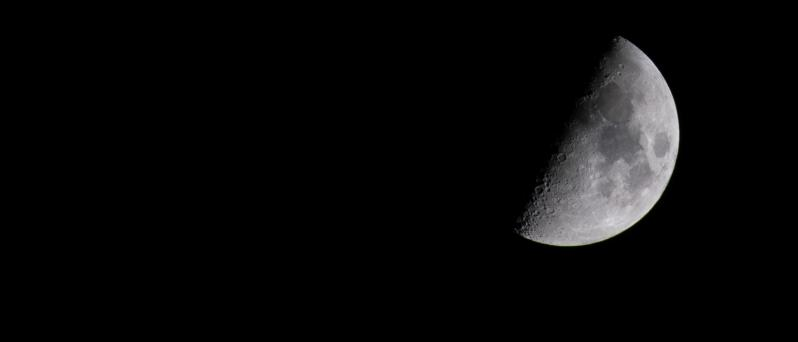
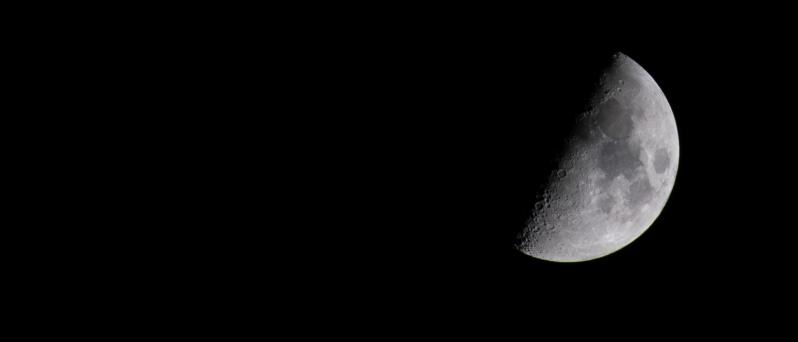
Updating gh-pages site

Changed region(s): [[0.6316, 0.117, 0.8722, 0.7895]]

diff --git a/blog/personal/enter-the-mystery/index.html b/blog/personal/enter-the-mystery/index.html
@@ -7,11 +7,11 @@
 <meta property="og:site_name" content="a-fro.com" />
 <meta property="og:title" content="Enter the Mystery" />
 <meta property="og:description" content="I work for the machine three days a week, making money to provide for my family and playing the game. It is soul-sucking work, not because it is inherently bad or wrong, but because every fiber of my being knows that I am called to something much more aligned with Life. Most of us are living lives of quiet desperation, trapped in the matrix despite seeing our plight. Knowing is not enough. The structures that we need to support the new world still mostly exist in the minds and hearts of our future selves." />
-<meta property="og:image" content="https://www.a-fro.com/sites/default/files/styles/open_graph/public/2022-01/moon.jpg?h=560575c0&amp;itok=NaDzxJ4A" />
+<meta property="og:image" content="https://www.a-fro.com/sites/default/files/styles/open_graph/public/2022-01/moon.jpg?h=a10861b7&amp;itok=NaDzxJ4A" />
 <meta name="twitter:card" content="summary_large_image" />
 <meta name="twitter:description" content="I work for the machine three days a week, making money to provide for my family and playing the game. It is soul-sucking work, not because it is inherently bad or wrong, but because every fiber of my being knows that I am called to something much more aligned with Life. Most of us are living lives of quiet desperation, trapped in the matrix despite seeing our plight. Knowing is not enough. The structures that we need to support the new world still mostly exist in the minds and hearts of our future selves." />
 <meta name="twitter:title" content="Enter the Mystery | a-fro.com" />
-<meta name="twitter:image" content="https://www.a-fro.com/sites/default/files/styles/large_2_1/public/2022-01/moon.jpg?h=560575c0&amp;itok=6Hf3q3Ay" />
+<meta name="twitter:image" content="https://www.a-fro.com/sites/default/files/styles/large_2_1/public/2022-01/moon.jpg?h=a10861b7&amp;itok=6Hf3q3Ay" />
 <meta name="Generator" content="Drupal 9 (https://www.drupal.org)" />
 <meta name="MobileOptimized" content="width" />
 <meta name="HandheldFriendly" content="true" />
@@ -98,7 +98,7 @@
   
   <div class="node__content">
     
-            <div class="full-width field field--name-field-representative-image field--type-entity-reference field--label-hidden field__item">  <img src="/sites/default/files/styles/large_21_9/public/2022-01/moon.jpg?h=560575c0&amp;itok=PnWA6Fve" width="1596" height="684" alt="Half-lit moon on a jet-black night" loading="lazy" class="image-style-large-21-9" />
+            <div class="full-width field field--name-field-representative-image field--type-entity-reference field--label-hidden field__item">  <img src="/sites/default/files/styles/large_21_9/public/2022-01/moon.jpg?h=a10861b7&amp;itok=PnWA6Fve" width="1596" height="684" alt="Half-lit moon on a jet-black night" loading="lazy" class="image-style-large-21-9" />
 
 
 </div>
@@ -165,7 +165,7 @@
   
       <h2>Up Next</h2>
     
-      <div><div class="view view-related-content view-id-related_content view-display-id-block_1 js-view-dom-id-4e4c83a3edebc6d8b586d0a0e0c4c0964ebbdba4aa2848ce587ea612f3bda598">
+      <div><div class="view view-related-content view-id-related_content view-display-id-block_1 js-view-dom-id-dae406fddbee62e33a85dc66e86c9ac7b9a28fb2c1ba824ffb8d95808534d7c0">
   
     
       

diff --git a/node/index.html b/node/index.html
@@ -44,7 +44,7 @@
     <div class="region region--highlighted">
       <div class="content__container">
           <div class="region region-highlighted">
-    <div id="block-simple-base-page-title--4" class="block block-core block-page-title-block">
+    <div id="block-simple-base-page-title" class="block block-core block-page-title-block">
   
     
       
@@ -62,10 +62,10 @@
   <main role="main" class="layout-main">
     <a id="main-content" tabindex="-1"></a>      <div class="region region-content">
     <div data-drupal-messages-fallback class="hidden"></div>
-<div id="block-mainpagecontent--4" class="block block-system block-system-main-block">
+<div id="block-mainpagecontent" class="block block-system block-system-main-block">
   
     
-      <div class="views-element-container"><div class="view view-frontpage view-id-frontpage view-display-id-page_1 js-view-dom-id-66242b6d2ef9faa417f44d488f73836c22b3d5a37e6d4271efcf18ee06ece02b">
+      <div class="views-element-container"><div class="view view-frontpage view-id-frontpage view-display-id-page_1 js-view-dom-id-916acd590aa6f9c8f208a9f901f9e73a35f0b69eaee1b37a040bfeeb753aa012">
   
     
       
@@ -81,7 +81,7 @@
   
   <div class="node__content">
     
-            <div class="field field--name-field-representative-image field--type-entity-reference field--label-hidden field__item">  <a href="/blog/personal/enter-the-mystery" hreflang="en"><img src="/sites/default/files/styles/medium_21_9/public/2022-01/moon.jpg?h=560575c0&amp;itok=agvac1vU" width="798" height="342" alt="Half-lit moon on a jet-black night" loading="lazy" class="image-style-medium-21-9" />
+            <div class="field field--name-field-representative-image field--type-entity-reference field--label-hidden field__item">  <a href="/blog/personal/enter-the-mystery" hreflang="en"><img src="/sites/default/files/styles/medium_21_9/public/2022-01/moon.jpg?h=a10861b7&amp;itok=agvac1vU" width="798" height="342" alt="Half-lit moon on a jet-black night" loading="lazy" class="image-style-medium-21-9" />
 
 </a>
 </div>

diff --git a/node/page/2/index.html b/node/page/2/index.html
@@ -44,7 +44,7 @@
     <div class="region region--highlighted">
       <div class="content__container">
           <div class="region region-highlighted">
-    <div id="block-simple-base-page-title--5" class="block block-core block-page-title-block">
+    <div id="block-simple-base-page-title" class="block block-core block-page-title-block">
   
     
       
@@ -62,10 +62,10 @@
   <main role="main" class="layout-main">
     <a id="main-content" tabindex="-1"></a>      <div class="region region-content">
     <div data-drupal-messages-fallback class="hidden"></div>
-<div id="block-mainpagecontent--5" class="block block-system block-system-main-block">
+<div id="block-mainpagecontent" class="block block-system block-system-main-block">
   
     
-      <div class="views-element-container"><div class="view view-frontpage view-id-frontpage view-display-id-page_1 js-view-dom-id-ab0cd9e1298d6ac44a16e4352631f717ee49e29a0e33263e3457a98a65c2957f">
+      <div class="views-element-container"><div class="view view-frontpage view-id-frontpage view-display-id-page_1 js-view-dom-id-aee50215c74224bba5c7fec2b0ef4de81d8c702dc2352cfb535bbb2b8170590e">
   
     
       
@@ -175,8 +175,8 @@
 
     </div>
   
-        <nav class="pager" role="navigation" aria-labelledby="pagination-heading--2">
-    <h4 id="pagination-heading--2" class="visually-hidden">Pagination</h4>
+        <nav class="pager" role="navigation" aria-labelledby="pagination-heading">
+    <h4 id="pagination-heading" class="visually-hidden">Pagination</h4>
     <ul class="pager__items js-pager__items">
                     <li class="pager__item pager__item--first">
           <a href="/node" title="Go to first page">

diff --git a/blog/personal/index.html b/blog/personal/index.html
@@ -81,7 +81,7 @@
 <div id="block-mainpagecontent--4" class="block block-system block-system-main-block">
   
     
-      <div class="views-element-container"><div class="view view-taxonomy-term view-id-taxonomy_term view-display-id-page_1 js-view-dom-id-c1a904041d03cb21bbccbfb75f751a10a5f29e389ce8da96a189312ffc6859b0">
+      <div class="views-element-container"><div class="view view-taxonomy-term view-id-taxonomy_term view-display-id-page_1 js-view-dom-id-583b5b9870568c32eb4f39931600597f07bf1fcbf2f1bf999813c09dc47808fe">
   
     
       <div class="view-header">
@@ -107,7 +107,7 @@
   
   <div class="node__content">
     
-            <div class="field field--name-field-representative-image field--type-entity-reference field--label-hidden field__item">  <a href="/blog/personal/enter-the-mystery" hreflang="en"><img src="/sites/default/files/styles/medium_21_9/public/2022-01/moon.jpg?h=560575c0&amp;itok=agvac1vU" width="798" height="342" alt="Half-lit moon on a jet-black night" loading="lazy" class="image-style-medium-21-9" />
+            <div class="field field--name-field-representative-image field--type-entity-reference field--label-hidden field__item">  <a href="/blog/personal/enter-the-mystery" hreflang="en"><img src="/sites/default/files/styles/medium_21_9/public/2022-01/moon.jpg?h=a10861b7&amp;itok=agvac1vU" width="798" height="342" alt="Half-lit moon on a jet-black night" loading="lazy" class="image-style-medium-21-9" />
 
 </a>
 </div>

diff --git a/blog/index.html b/blog/index.html
@@ -64,7 +64,7 @@
 <div id="block-mainpagecontent--2" class="block block-system block-system-main-block">
   
     
-      <div class="views-element-container"><div class="view view-blog-home view-id-blog_home view-display-id-page_1 js-view-dom-id-7520089bc4f535d8aec248ba3d0d7d8d6fda79c620e49c78c6f9db11d9e63122">
+      <div class="views-element-container"><div class="view view-blog-home view-id-blog_home view-display-id-page_1 js-view-dom-id-bcbb669c789498c58ebab60650927d1b4fe6ff327c21664127dc80c12a4b68a2">
   
     
       <div class="view-header">
@@ -87,7 +87,7 @@
   
   <div class="node__content">
     
-            <div class="field field--name-field-representative-image field--type-entity-reference field--label-hidden field__item">  <a href="/blog/personal/enter-the-mystery" hreflang="en"><img src="/sites/default/files/styles/medium_21_9/public/2022-01/moon.jpg?h=560575c0&amp;itok=agvac1vU" width="798" height="342" alt="Half-lit moon on a jet-black night" loading="lazy" class="image-style-medium-21-9" />
+            <div class="field field--name-field-representative-image field--type-entity-reference field--label-hidden field__item">  <a href="/blog/personal/enter-the-mystery" hreflang="en"><img src="/sites/default/files/styles/medium_21_9/public/2022-01/moon.jpg?h=a10861b7&amp;itok=agvac1vU" width="798" height="342" alt="Half-lit moon on a jet-black night" loading="lazy" class="image-style-medium-21-9" />
 
 </a>
 </div>

diff --git a/blog/personal/love-rekindled/index.html b/blog/personal/love-rekindled/index.html
@@ -171,7 +171,7 @@ Both long forgotten, and newly discovered.</p>
   
       <h2>Up Next</h2>
     
-      <div><div class="view view-related-content view-id-related_content view-display-id-block_1 js-view-dom-id-96fd80a6402c3ac6a1d193bf94dc3a20729066c3dc9fa0f702992b1d0bf53559">
+      <div><div class="view view-related-content view-id-related_content view-display-id-block_1 js-view-dom-id-8104556154e8ea4bbfad3be5c5a2ffb021fad2d010916f77fc5fe1549023ce27">
   
     
       
@@ -187,7 +187,7 @@ Both long forgotten, and newly discovered.</p>
   
   <div class="node__content">
     
-            <div class="field field--name-field-representative-image field--type-entity-reference field--label-hidden field__item">  <a href="/blog/personal/enter-the-mystery" hreflang="en"><img src="/sites/default/files/styles/medium_21_9/public/2022-01/moon.jpg?h=560575c0&amp;itok=agvac1vU" width="798" height="342" alt="Half-lit moon on a jet-black night" loading="lazy" class="image-style-medium-21-9" />
+            <div class="field field--name-field-representative-image field--type-entity-reference field--label-hidden field__item">  <a href="/blog/personal/enter-the-mystery" hreflang="en"><img src="/sites/default/files/styles/medium_21_9/public/2022-01/moon.jpg?h=a10861b7&amp;itok=agvac1vU" width="798" height="342" alt="Half-lit moon on a jet-black night" loading="lazy" class="image-style-medium-21-9" />
 
 </a>
 </div>

diff --git a/index.html b/index.html
@@ -81,7 +81,7 @@
 <div class="views-element-container block block-views block-views-blockblog-home-block-1" id="block-views-block-blog-home-block-1">
   
     
-      <div><div class="view view-blog-home view-id-blog_home view-display-id-block_1 js-view-dom-id-8779e6182a8efbfaa872a822a13db16e70e47c1754e12cf3e5e0ed9de9d287d3">
+      <div><div class="view view-blog-home view-id-blog_home view-display-id-block_1 js-view-dom-id-bf8624981586a355862540912219805fa198b8be2c28a17c8f95603cdfe782bb">
   
     
       
@@ -97,7 +97,7 @@
   
   <div class="node__content">
     
-            <div class="field field--name-field-representative-image field--type-entity-reference field--label-hidden field__item">  <a href="/blog/personal/enter-the-mystery" hreflang="en"><img src="/sites/default/files/styles/medium_21_9/public/2022-01/moon.jpg?h=560575c0&amp;itok=agvac1vU" width="798" height="342" alt="Half-lit moon on a jet-black night" loading="lazy" class="image-style-medium-21-9" />
+            <div class="field field--name-field-representative-image field--type-entity-reference field--label-hidden field__item">  <a href="/blog/personal/enter-the-mystery" hreflang="en"><img src="/sites/default/files/styles/medium_21_9/public/2022-01/moon.jpg?h=a10861b7&amp;itok=agvac1vU" width="798" height="342" alt="Half-lit moon on a jet-black night" loading="lazy" class="image-style-medium-21-9" />
 
 </a>
 </div>

diff --git a/blog/personal/cubicle-killing-you-how-i-brought-mine-life/index.html b/blog/personal/cubicle-killing-you-how-i-brought-mine-life/index.html
@@ -200,7 +200,7 @@
   
       <h2>Up Next</h2>
     
-      <div><div class="view view-related-content view-id-related_content view-display-id-block_1 js-view-dom-id-48c65f725a8bbf71634e4048ec95a82dfe55ae1e389fe498085b3f0cdce77cde">
+      <div><div class="view view-related-content view-id-related_content view-display-id-block_1 js-view-dom-id-2e58b2e6a017408fcd521d9255fdca6d6038596b1d7f5c67a8be08f4e96c8791">
   
     
       
@@ -216,7 +216,7 @@
   
   <div class="node__content">
     
-            <div class="field field--name-field-representative-image field--type-entity-reference field--label-hidden field__item">  <a href="/blog/personal/enter-the-mystery" hreflang="en"><img src="/sites/default/files/styles/medium_21_9/public/2022-01/moon.jpg?h=560575c0&amp;itok=agvac1vU" width="798" height="342" alt="Half-lit moon on a jet-black night" loading="lazy" class="image-style-medium-21-9" />
+            <div class="field field--name-field-representative-image field--type-entity-reference field--label-hidden field__item">  <a href="/blog/personal/enter-the-mystery" hreflang="en"><img src="/sites/default/files/styles/medium_21_9/public/2022-01/moon.jpg?h=a10861b7&amp;itok=agvac1vU" width="798" height="342" alt="Half-lit moon on a jet-black night" loading="lazy" class="image-style-medium-21-9" />
 
 </a>
 </div>

diff --git a/blog/personal/inner-dimensions-climate-change/index.html b/blog/personal/inner-dimensions-climate-change/index.html
@@ -197,7 +197,7 @@
   
       <h2>Up Next</h2>
     
-      <div><div class="view view-related-content view-id-related_content view-display-id-block_1 js-view-dom-id-15a9518508621f2933d3cb6aadee2e5a3cfebb92e2f58cbd536d614420153707">
+      <div><div class="view view-related-content view-id-related_content view-display-id-block_1 js-view-dom-id-883ee72aece2557a2cbbb921f9cdfcab3b5540da3af1a5fbf4174d422661efdc">
   
     
       
@@ -213,7 +213,7 @@
   
   <div class="node__content">
     
-            <div class="field field--name-field-representative-image field--type-entity-reference field--label-hidden field__item">  <a href="/blog/personal/enter-the-mystery" hreflang="en"><img src="/sites/default/files/styles/medium_21_9/public/2022-01/moon.jpg?h=560575c0&amp;itok=agvac1vU" width="798" height="342" alt="Half-lit moon on a jet-black night" loading="lazy" class="image-style-medium-21-9" />
+            <div class="field field--name-field-representative-image field--type-entity-reference field--label-hidden field__item">  <a href="/blog/personal/enter-the-mystery" hreflang="en"><img src="/sites/default/files/styles/medium_21_9/public/2022-01/moon.jpg?h=a10861b7&amp;itok=agvac1vU" width="798" height="342" alt="Half-lit moon on a jet-black night" loading="lazy" class="image-style-medium-21-9" />
 
 </a>
 </div>

diff --git a/blog/personal/ux-youx/index.html b/blog/personal/ux-youx/index.html
@@ -221,7 +221,7 @@
   
       <h2>Up Next</h2>
     
-      <div><div class="view view-related-content view-id-related_content view-display-id-block_1 js-view-dom-id-aaa07ca99762f1cdf1c318aa51dad88db82bd6c68715cded9161fc6a24c1d7f2">
+      <div><div class="view view-related-content view-id-related_content view-display-id-block_1 js-view-dom-id-21c6bf0a5b415447ae884c63a9754dad17c3a92a1a655a730aa4258ae1d2678d">
   
     
       
@@ -237,7 +237,7 @@
   
   <div class="node__content">
     
-            <div class="field field--name-field-representative-image field--type-entity-reference field--label-hidden field__item">  <a href="/blog/personal/enter-the-mystery" hreflang="en"><img src="/sites/default/files/styles/medium_21_9/public/2022-01/moon.jpg?h=560575c0&amp;itok=agvac1vU" width="798" height="342" alt="Half-lit moon on a jet-black night" loading="lazy" class="image-style-medium-21-9" />
+            <div class="field field--name-field-representative-image field--type-entity-reference field--label-hidden field__item">  <a href="/blog/personal/enter-the-mystery" hreflang="en"><img src="/sites/default/files/styles/medium_21_9/public/2022-01/moon.jpg?h=a10861b7&amp;itok=agvac1vU" width="798" height="342" alt="Half-lit moon on a jet-black night" loading="lazy" class="image-style-medium-21-9" />
 
 </a>
 </div>

diff --git a/blog/personal/we-swim-in-love/index.html b/blog/personal/we-swim-in-love/index.html
@@ -188,7 +188,7 @@
   
       <h2>Up Next</h2>
     
-      <div><div class="view view-related-content view-id-related_content view-display-id-block_1 js-view-dom-id-afe9c05b2d11e867b2901e0e405fa0926cf8ccd2c8c16493c42f7d3736b1cd84">
+      <div><div class="view view-related-content view-id-related_content view-display-id-block_1 js-view-dom-id-c93e711a78b2d47c43b94b85ef3db3d923d74d4fed225697e77c9f81a6dde7c7">
   
     
       
@@ -204,7 +204,7 @@
   
   <div class="node__content">
     
-            <div class="field field--name-field-representative-image field--type-entity-reference field--label-hidden field__item">  <a href="/blog/personal/enter-the-mystery" hreflang="en"><img src="/sites/default/files/styles/medium_21_9/public/2022-01/moon.jpg?h=560575c0&amp;itok=agvac1vU" width="798" height="342" alt="Half-lit moon on a jet-black night" loading="lazy" class="image-style-medium-21-9" />
+            <div class="field field--name-field-representative-image field--type-entity-reference field--label-hidden field__item">  <a href="/blog/personal/enter-the-mystery" hreflang="en"><img src="/sites/default/files/styles/medium_21_9/public/2022-01/moon.jpg?h=a10861b7&amp;itok=agvac1vU" width="798" height="342" alt="Half-lit moon on a jet-black night" loading="lazy" class="image-style-medium-21-9" />
 
 </a>
 </div>

diff --git a/blog/personal/yes-vote-tuesday-also-be-change-you-seek/index.html b/blog/personal/yes-vote-tuesday-also-be-change-you-seek/index.html
@@ -157,7 +157,7 @@
   
       <h2>Up Next</h2>
     
-      <div><div class="view view-related-content view-id-related_content view-display-id-block_1 js-view-dom-id-bb0276c819f55628384d7f96edfa0914e5b6e1e5c86408ec868d31dead1de113">
+      <div><div class="view view-related-content view-id-related_content view-display-id-block_1 js-view-dom-id-fada38353fcd01fbfee12c6ee653a0365b03c5f474b44f6ac2d9bb11bdb95c9e">
   
     
       
@@ -173,7 +173,7 @@
   
   <div class="node__content">
     
-            <div class="field field--name-field-representative-image field--type-entity-reference field--label-hidden field__item">  <a href="/blog/personal/enter-the-mystery" hreflang="en"><img src="/sites/default/files/styles/medium_21_9/public/2022-01/moon.jpg?h=560575c0&amp;itok=agvac1vU" width="798" height="342" alt="Half-lit moon on a jet-black night" loading="lazy" class="image-style-medium-21-9" />
+            <div class="field field--name-field-representative-image field--type-entity-reference field--label-hidden field__item">  <a href="/blog/personal/enter-the-mystery" hreflang="en"><img src="/sites/default/files/styles/medium_21_9/public/2022-01/moon.jpg?h=a10861b7&amp;itok=agvac1vU" width="798" height="342" alt="Half-lit moon on a jet-black night" loading="lazy" class="image-style-medium-21-9" />
 
 </a>
 </div>
